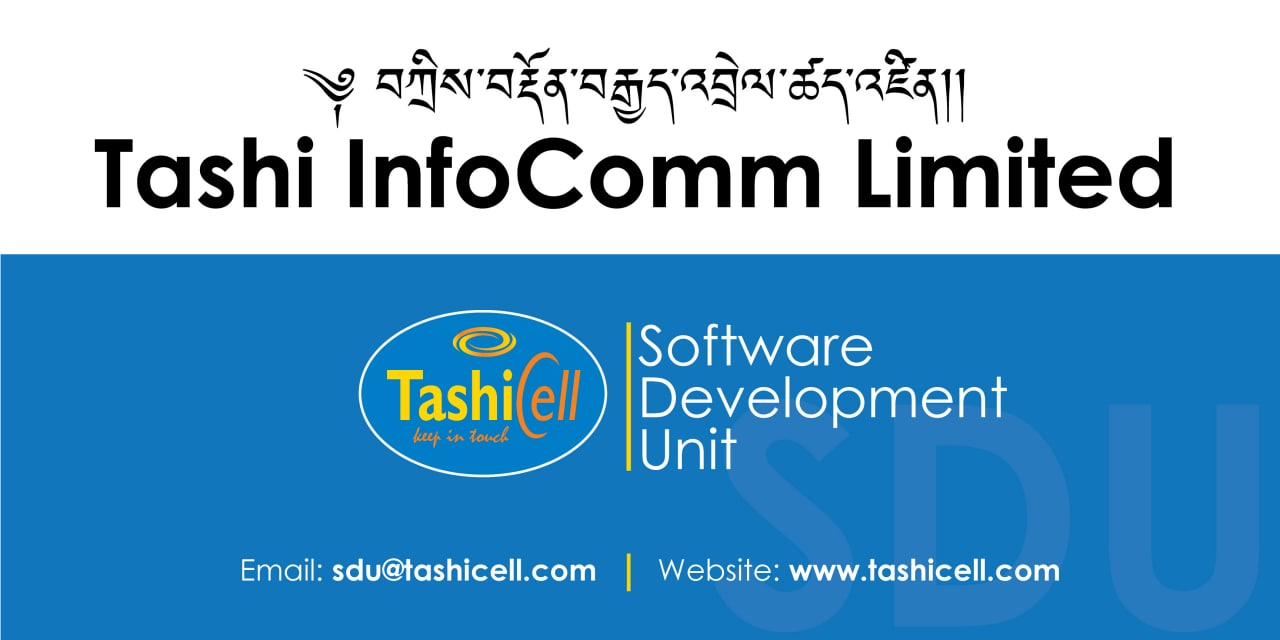
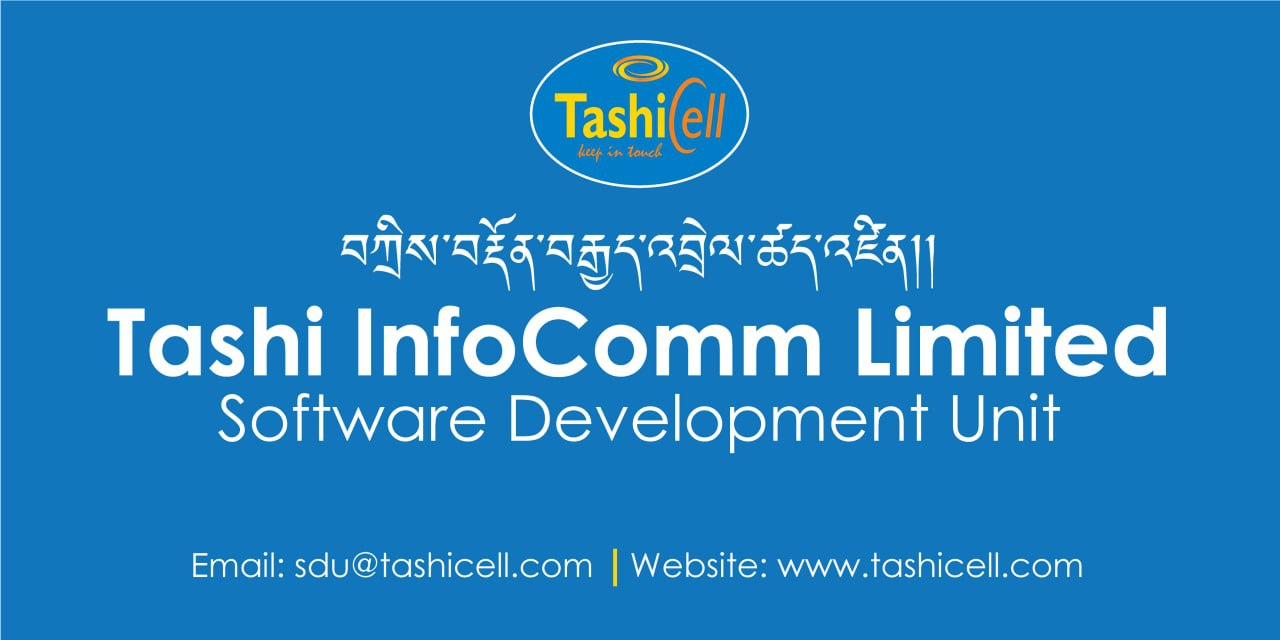
products-updated

diff --git a/app/component/product/ProductsShow.jsx b/app/component/product/ProductsShow.jsx
@@ -4,8 +4,7 @@ import React, { useState } from "react";
 import { ReactMarkdown } from "react-markdown/lib/react-markdown";
 import remarkGfm from "remark-gfm";
 import classNames from "classnames"; 
-import { Tab, initTE } from "tw-elements";
-initTE({ Tab });
+
 
 const ProductsShow = (product) => {
   const [modal, setModal] = useState(false);
@@ -20,7 +19,7 @@ const ProductsShow = (product) => {
   return (
     <section className="py-10 lg:py-20 bg-white relative z-10">
       <div className="container max-w-6xl mx-auto">
-        {/* <div className="grid lg:grid-cols-3 md:grid-cols-2 grid-cols-1 gap-2 ">
+        <div className="grid lg:grid-cols-3 md:grid-cols-2 grid-cols-1 gap-2 ">
           {product.product.data.map(function (products) {
             return (
               <div
@@ -63,7 +62,7 @@ const ProductsShow = (product) => {
                 className={classNames(
                   "flex flex-col max-w-6xl max-h-screen px-4 mx-auto sm:px-6",
                   {
-                    "bg-opacity-75 ": modal, // Apply background blur class when modal is open
+                    "bg-opacity-75 ": modal, 
                   }
                 )}
               >
@@ -98,100 +97,7 @@ const ProductsShow = (product) => {
               </div>
             </div>
           )}
-        </div> */}
-
-<div class="flex items-start">
-  <ul
-    class="mr-4 flex list-none flex-col flex-wrap pl-0"
-    role="tablist"
-    data-te-nav-ref>
-    <li role="presentation" class="flex-grow text-center">
-      <a
-        href="#pills-home03"
-        class="my-2 block rounded bg-neutral-100 px-7 pb-3.5 pt-4 text-xs font-medium uppercase leading-tight text-neutral-500 data-[te-nav-active]:!bg-primary-100 data-[te-nav-active]:text-primary-700 dark:bg-neutral-700 dark:text-white dark:data-[te-nav-active]:text-primary-700"
-        id="pills-home-tab03"
-        data-te-toggle="pill"
-        data-te-target="#pills-home03"
-        data-te-nav-active
-        role="tab"
-        aria-controls="pills-home03"
-        aria-selected="true"
-        >Home</a
-      >
-    </li>
-    <li role="profile" class="flex-grow text-center">
-      <a
-        href="#pills-profile03"
-        class="my-2 block rounded bg-neutral-100 px-7 pb-3.5 pt-4 text-xs font-medium uppercase leading-tight text-neutral-500 data-[te-nav-active]:!bg-primary-100 data-[te-nav-active]:text-primary-700 dark:bg-neutral-700 dark:text-white dark:data-[te-nav-active]:text-primary-700"
-        id="pills-profile-tab03"
-        data-te-toggle="pill"
-        data-te-target="#pills-profile03"
-        role="tab"
-        aria-controls="pills-profile03"
-        aria-selected="false"
-        >Profile</a
-      >
-    </li>
-    <li role="contact" class="flex-grow text-center">
-      <a
-        href="#pills-contact03"
-        class="my-2 block rounded bg-neutral-100 px-7 pb-3.5 pt-4 text-xs font-medium uppercase leading-tight text-neutral-500 data-[te-nav-active]:!bg-primary-100 data-[te-nav-active]:text-primary-700 dark:bg-neutral-700 dark:text-white dark:data-[te-nav-active]:text-primary-700"
-        id="pills-contact-tab03"
-        data-te-toggle="pill"
-        data-te-target="#pills-contact03"
-        role="tab"
-        aria-controls="pills-contact03"
-        aria-selected="false"
-        >Contact</a
-      >
-    </li>
-    <li role="disabled" class="flex-grow text-center">
-      <a
-        href="#pills-disabled03"
-        class="pointer-events-none my-2 block rounded bg-neutral-200 px-7 pb-3.5 pt-4 text-xs font-medium uppercase leading-tight text-neutral-400 dark:bg-neutral-600 dark:text-neutral-500"
-        id="pills-disabled-tab03"
-        data-te-toggle="pill"
-        data-te-target="#pills-disabled03"
-        role="tab"
-        aria-controls="pills-disabled03"
-        aria-selected="false"
-        >Disabled</a
-      >
-    </li>
-  </ul>
-
-  <div class="my-2">
-    <div
-      class="hidden opacity-100 transition-opacity duration-150 ease-linear data-[te-tab-active]:block"
-      id="pills-home03"
-      role="tabpanel"
-      aria-labelledby="pills-home-tab03"
-      data-te-tab-active>
-      Tab 1 content vertical
-    </div>
-    <div
-      class="hidden opacity-0 transition-opacity duration-150 ease-linear data-[te-tab-active]:block"
-      id="pills-profile03"
-      role="tabpanel"
-      aria-labelledby="pills-profile-tab03">
-      Tab 2 content vertical
-    </div>
-    <div
-      class="hidden opacity-0 transition-opacity duration-150 ease-linear data-[te-tab-active]:block"
-      id="pills-contact03"
-      role="tabpanel"
-      aria-labelledby="pills-contact-tab03">
-      Tab 3 content vertical
-    </div>
-    <div
-      class="hidden opacity-0 transition-opacity duration-150 ease-linear data-[te-tab-active]:block"
-      id="pills-disabled03"
-      role="tabpanel"
-      aria-labelledby="pills-disabled-tab03">
-      Tab 4 disabled vertical
-    </div>
-  </div>
-</div>
+        </div>
       </div>
     </section>
   );

diff --git a/app/component/home/BannerSection.jsx b/app/component/home/BannerSection.jsx
@@ -13,15 +13,15 @@ class BannerSection extends Component {
     };
 
     return (
-      <section className="py-28  min-h-screen relative before:content-[''] before:absolute before:left-0 before:top-0 before:h-full before:w-full before:bg-no-repeat before:bg-contain before:z-0">
+        <section className="py-28  min-h-screen relative before:content-[''] before:absolute before:left-0 before:top-0 before:h-full before:w-full before:bg-no-repeat before:bg-contain before:z-0 ">
         <div className="container max-w-6xl mx-auto relative z-10 px-2">
-          <div className="grid lg:grid-cols-[1fr_1fr] sm:grid-cols-1 items-center gap-5 min-h-[calc(100vh-160px)]">
+          <div className="grid lg:grid-cols-[1fr_1fr] sm:grid-cols-1 items-center gap-5 min-h-[calc(100vh-160px)] ">
             <div className="pt-2">
-              <h2 className="text-blue font-bold font-poppins lg:text-[52px]  text-4xl lg:leading-[60px] leading-10 lg:mb-8 mb-6 lg:text-left md:text-center text-center">
+              <h2 className="text-white font-bold font-poppins lg:text-[52px]  text-4xl lg:leading-[60px] leading-10 lg:mb-8 mb-6 lg:text-left md:text-center text-center">
                 Software <br /> Development <br /> Unit
               </h2>
               <p className="lg:text-xl text-base leading-7 mb-8 lg:text-left md:text-center text-center">
-                We are a Software Development Unit based IT company in Thimphu
+                We are a Software Development Unit based IT compassny in Thimphu
                 who provides top quality service.
               </p>
               <p className="lg:text-left md:text-center text-center">
